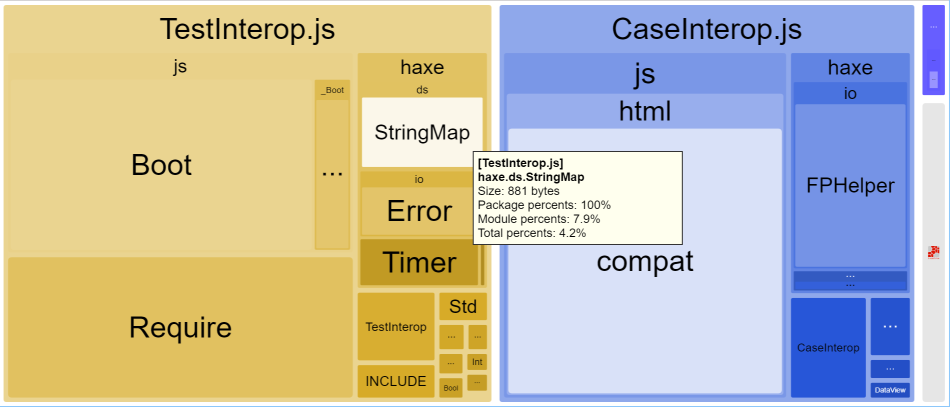
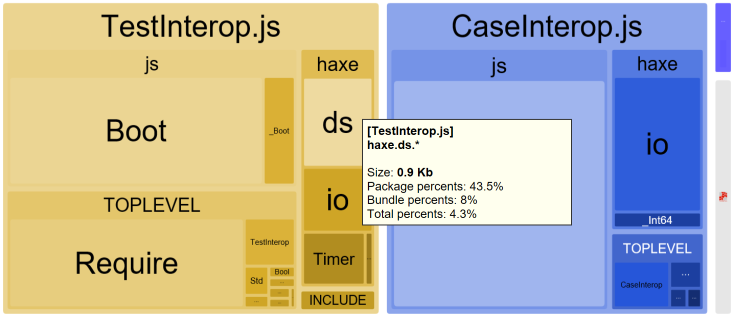
Show size in Kb in the viewer

diff --git a/tool/bin/viewer.js b/tool/bin/viewer.js
@@ -402,7 +402,7 @@ StatsViewer.prototype = {
 			this.clearTip();
 			return;
 		}
-		var label = "<b>" + this.pathOf(o) + "</b><br/> Size: " + o.size + " bytes<br/>";
+		var label = "<b>" + this.pathOf(o) + "</b><br/><br/> Size: " + this.formatSize(o.size) + "<br/>";
 		if(o.parent != null) {
 			if(o.parent.parent != null) {
 				label += "Package percents: " + o.weight + "%<br/>";
@@ -414,6 +414,9 @@ StatsViewer.prototype = {
 		this.tip.style.visibility = "visible";
 		this.tipWidth = this.tip.offsetWidth;
 		this.tipHeight = this.tip.offsetHeight;
+	}
+	,formatSize: function(size) {
+		return "<b>" + Math.round(10 * size / 1024) / 10 + " Kb</b>";
 	}
 	,clearTip: function() {
 		this.tip.style.visibility = "hidden";
